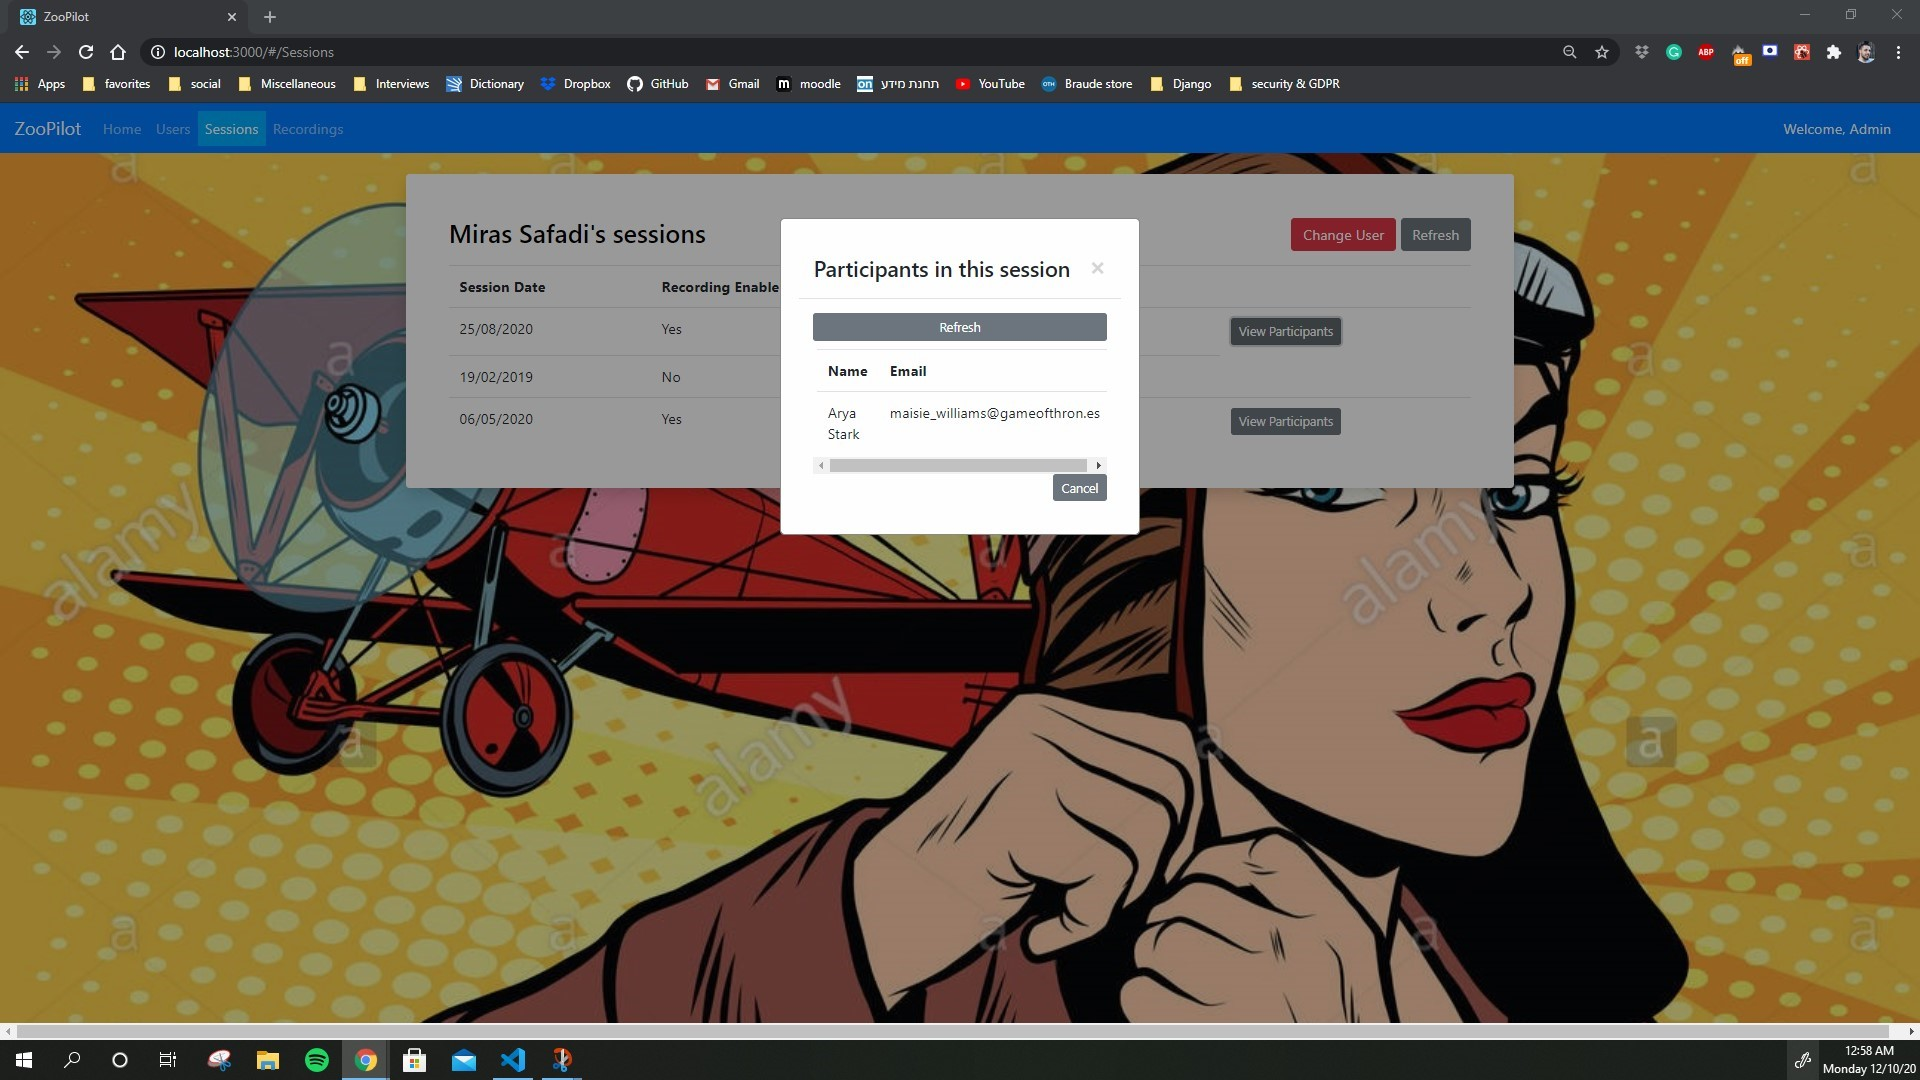
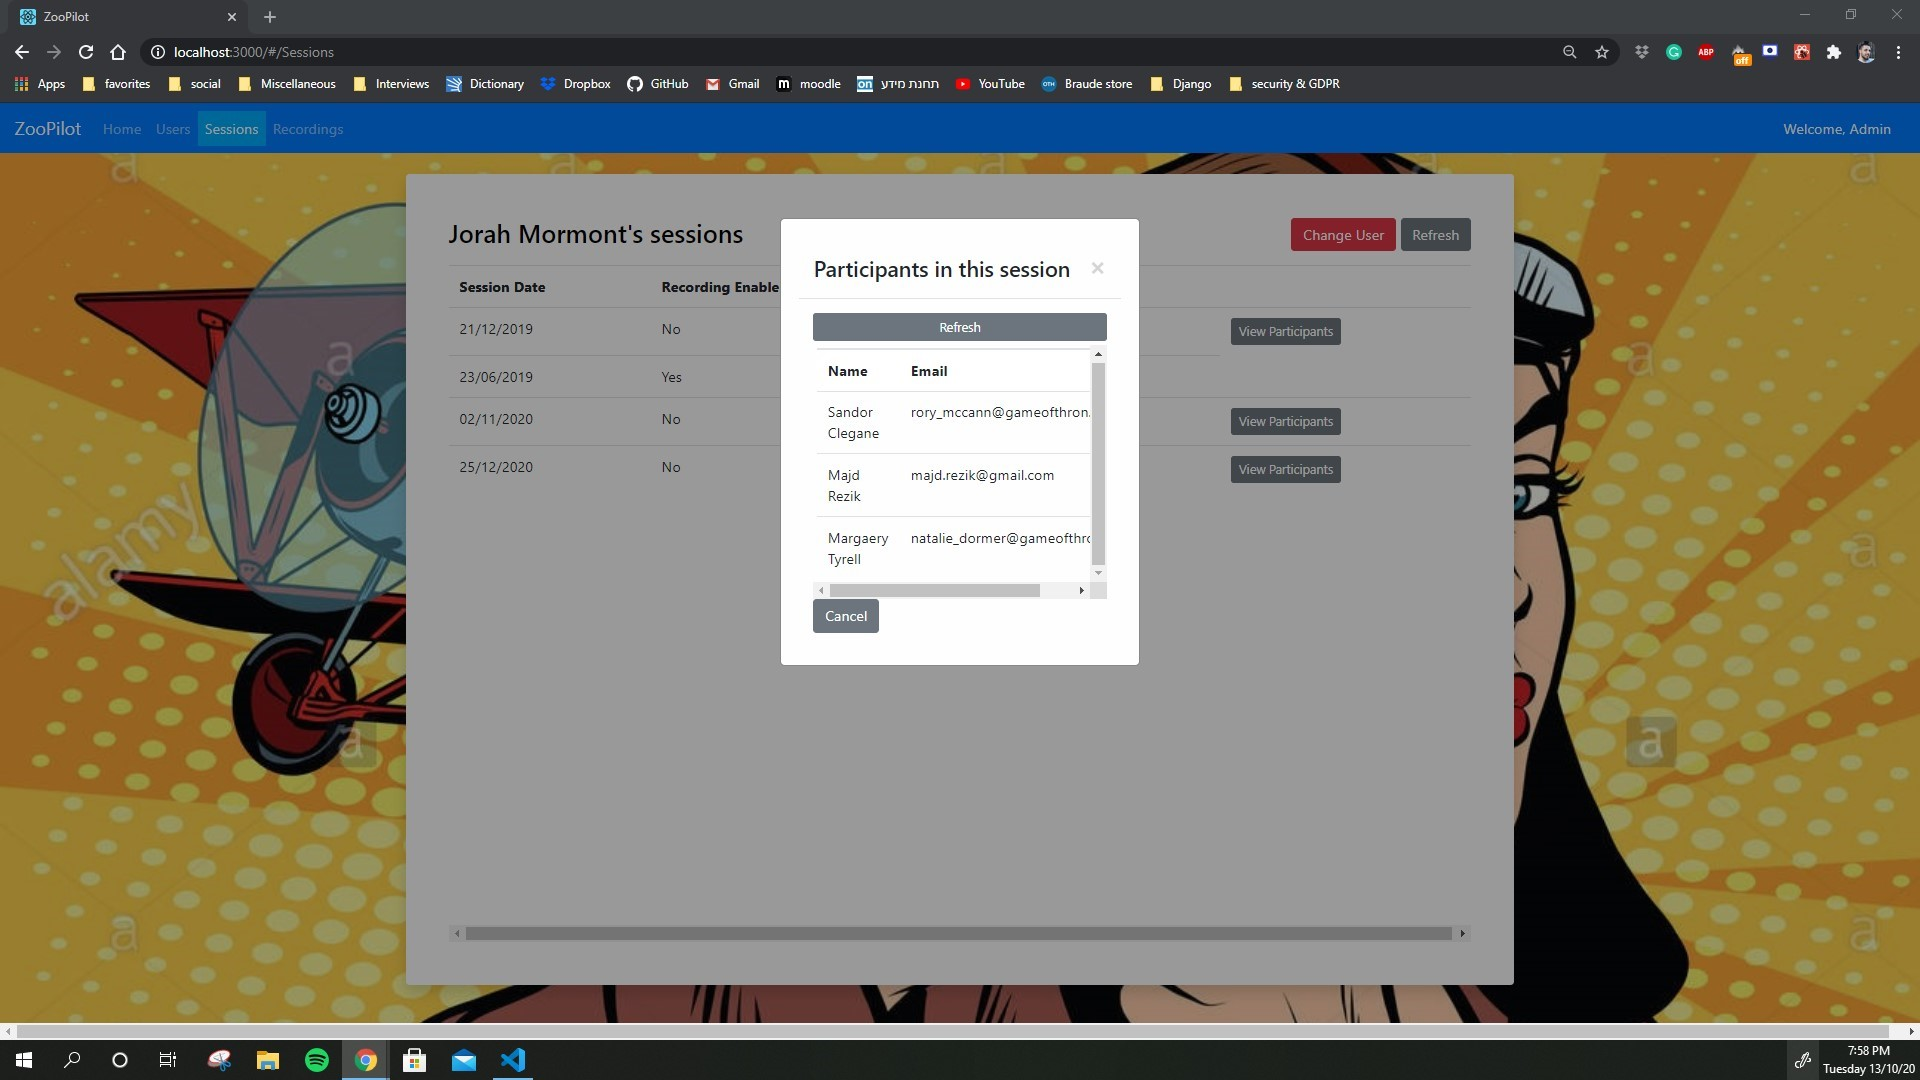
Updated screenshots, fixed 'refresh participants'

diff --git a/frontend/src/content/Sessions.js b/frontend/src/content/Sessions.js
@@ -18,11 +18,13 @@ class Sessions extends Component {
     this.changeHandler = this.changeHandler.bind(this);
     this.showTableHandler = this.showTableHandler.bind(this);
     this.viewParticipantsHandler = this.viewParticipantsHandler.bind(this);
+    this.refreshParticipantsList = this.refreshParticipantsList.bind(this);
     this.changeUser = this.changeUser.bind(this);
     this.refreshList = this.refreshList.bind(this);
     this.closeModal = this.closeModal.bind(this);
     
     this.participants = [];
+    this.currentSession = null;
   }
 
   changeHandler(event){
@@ -54,6 +56,7 @@ class Sessions extends Component {
 
 
   viewParticipantsHandler(session){
+    this.currentSession = session
     axios.get('http://localhost:8000/api/participants/'+session.id)
     .then(response => {
         let res_participants = response.data.participants;
@@ -96,9 +99,12 @@ class Sessions extends Component {
     this.setState({
       showParticipantsModal: false
     })
+    this.participants = [];
+    this.currentSession = null;
   }
   refreshParticipantsList(){
-    console.log('refreshed!')
+    if(this.currentSession != null)
+        this.viewParticipantsHandler(this.currentSession);
   }
 
   render() {
@@ -162,7 +168,7 @@ class Sessions extends Component {
             <button onClick={this.refreshParticipantsList} type="button" className="btn btn-secondary btn-sm btn-block" style={{float:'right', marginBottom:5}}>Refresh</button>
             {/* Responsive table */}
             <div className="table-responsive">
-                <TableScrollbar rows={2}>
+                <TableScrollbar rows={5}>
                 <table className="table m-1">   
                     <thead >
                       <tr style={{ backgroundColor: 'white'}}>
